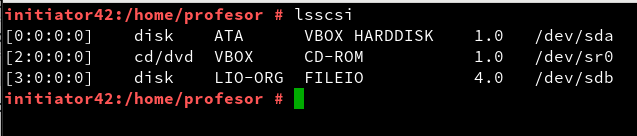
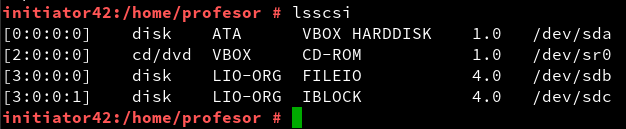
U

diff --git a/actividades/fuw/almacenamiento/iscsi-opensuse.md b/actividades/fuw/almacenamiento/iscsi-opensuse.md
@@ -2,6 +2,7 @@
 * Fecha de creación : curso 201415
 * Fecha de UM       : curso 201617
 * Sistema Operativo : OpenSUSE Leap, OpenSUSE 13.2
+Revisar el tamaño del destino cuando se conecta en el iniciador
 ```
 
 # iSCSI en OpenSUSE
@@ -34,22 +35,6 @@ para instalar el software, podemos hacerlo de varias formas:
 > * (a) Poner el interfaz de red temporalmente en puente, instalar y cambiar.
 > * (b) Poner temporalmente un 2º interfaz puente para instalar y luego lo desactivamos.
 > * (c) Activar/configurar enrutamiento en el Initiator.
->    
-> **Enrutamiento en GNU/Linux**
->
-> * [Enrutamiento en GNU/Linux](http://www.ite.educacion.es/formacion/materiales/85/cd/linux/m6/enrutamiento_en_linux.html)
-> *  Ejemplo de script que activa el enrutamiento y el NAT:
-> ```
->     // activar-enrutamiento.sh
->     echo "1" > /proc/sys/net/ipv4/ip_forward
->     iptables -A FORWARD -j ACCEPT
->     iptables -t nat -A POSTROUTING -s IP_RED_INTERNA/MASCARA_RED_INTERNA -o eth0 -j MASQUERADE
-> ```
-> *  Ejemplo de script que desactivara el enrutamiento:
-> ```
->     // desactivar-enrutamiento.sh
->     echo "0" > /proc/sys/net/ipv4/ip_forward
-> ```
 
 ---
 
@@ -222,13 +207,11 @@ Vamos a la máquina Iniciador.
 conectar un target concreto.
 > * `iscsiadm -m node -l`, conectar con todos los targets, usando una configuración básica sin autenticación.
 
-* Si hacemos `fdisk -l`, veremos que nos aparece un nuevo disco en
-el equipo iniciador.
+* Si hacemos `fdisk -l`, veremos que nos aparece dos nuevos discos en el equipo iniciador.
 
 ## 5.2 Usar almacenamiento
 
-* `dmesg`, comprobar que tenemos un nuevo disco SCSI de 1200M conectado a la MV del Initiator.
-    * Debería ser un disco `/dev/sdb`.
+Vamos a equipo Iniciador:
 * `lsscsi`, encontrar la ruta del dispositivo local para el dispositivo Target iSCSI.
 
 ![iscsi-opensuse-initiator-lsscsi.png](files/iscsi-opensuse-initiator-lsscsi.png)
@@ -249,3 +232,22 @@ Enlaces de interés:
 * [federicosayd - ISCSI Target en GNU/Linux Debian](https://federicosayd.wordpress.com/2007/09/11/instalando-un-target-iscsi/)
 * iSCSI - [Using iSCSI (target and initiator) on Debian](https://www.howtoforge.com/using-iscsi-on-debian-lenny-initiator-and-target).
 * TARGET - [Create targer iSCSI on Debian](https://wiki.debian.org/SAN/iSCSI/iscsitarget).
+
+## A.2 Enrutamiento en GNU/Linux
+
+* [Enrutamiento en GNU/Linux](http://www.ite.educacion.es/formacion/materiales/85/cd/linux/m6/enrutamiento_en_linux.html)
+*  Ejemplo de script que activa el enrutamiento y el NAT:
+
+```
+   // activar-enrutamiento.sh
+   echo "1" > /proc/sys/net/ipv4/ip_forward
+   iptables -A FORWARD -j ACCEPT
+   iptables -t nat -A POSTROUTING -s IP_RED_INTERNA/MASCARA_RED_INTERNA -o eth0 -j MASQUERADE
+```
+
+*  Ejemplo de script que desactivara el enrutamiento:
+
+```
+   // desactivar-enrutamiento.sh
+   echo "0" > /proc/sys/net/ipv4/ip_forward
+```

diff --git a/actividades/fuw/almacenamiento/iscsi-windows.md b/actividades/fuw/almacenamiento/iscsi-windows.md
@@ -74,6 +74,9 @@ Donde XX será el número correspondiente al puesto de cada alumno.
 permitido el uso del almacenamiento que estamos creando.
     * Nombre IQN del iniciador o también en avanzado podremos poner la dirección IP del Iniciador.
 
+> IMPORTANTE: El iniciador tiene 2 IP's, pero se comunica con el target usando
+el interfaz de red de la red interna.
+
 ## 3.3 Crear un dispositivo
 
 * Crear disco virtual para el destino iSCSI en `C:\alumnoXXdisco01.vhd` de tamaño 500 MB.
